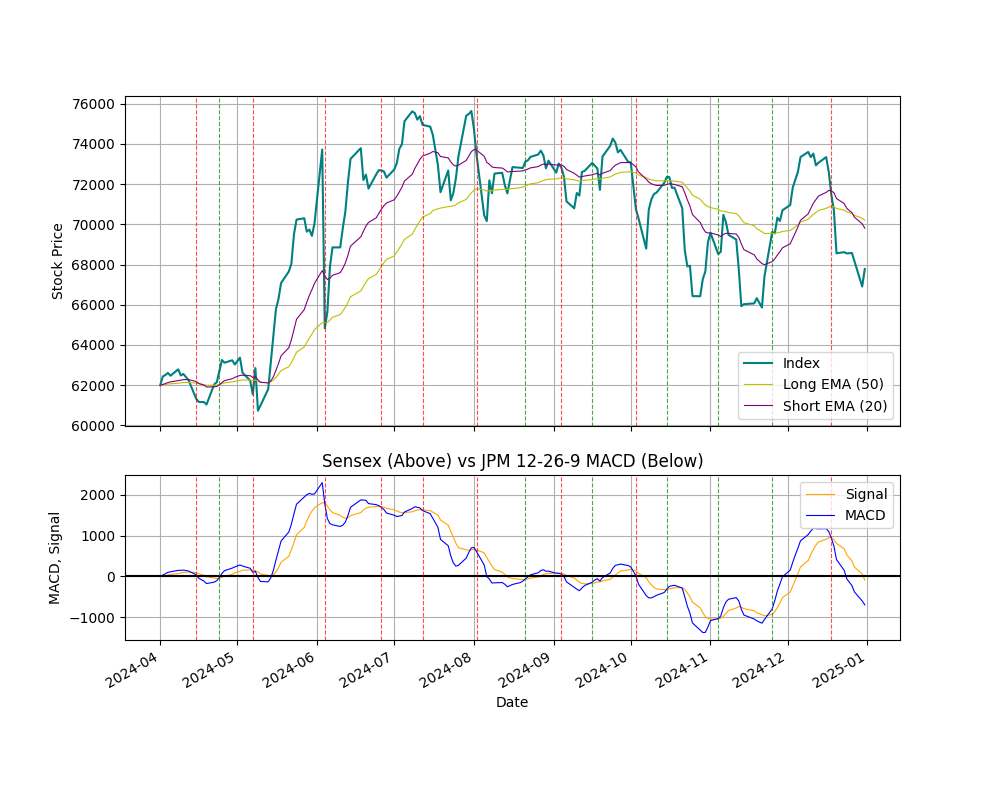
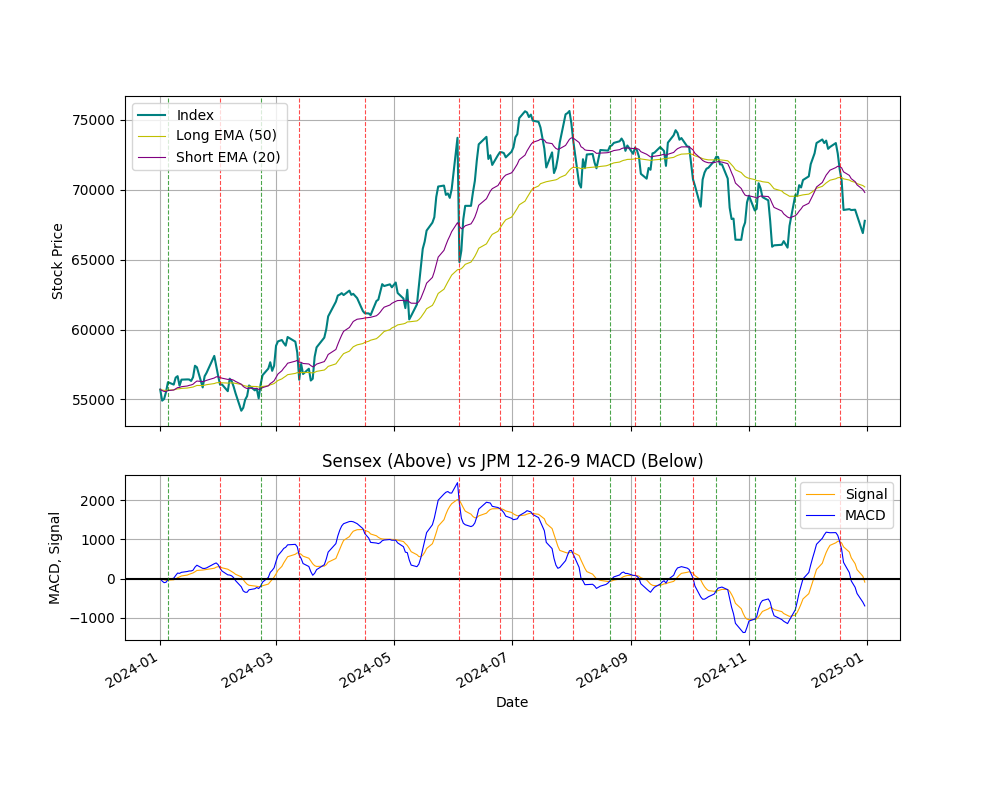
More Data exploration

diff --git a/strategy.py b/strategy.py
@@ -3,6 +3,10 @@ import pandas as pd
 import numpy as np
 import matplotlib.pyplot as plt
 
+from tvDatafeed import TvDatafeed, Interval
+
+tv = TvDatafeed()
+
 def plot_strategy(df):
     fig, ax = plt.subplots(
         2, 1, sharex=True, figsize=(10, 8), gridspec_kw={"height_ratios": [6, 3]}
@@ -53,8 +57,8 @@ def prepare_strategy(df):
     df["Signal"] = df["MACD"].ewm(span=signal_window, adjust=False).mean()
 
     # Find crossover points
-    df["Bullish_Crossover"] = (df["MACD"] > df["Signal"]) & (df["MACD"].shift(1) < df["Signal"].shift(1)) & (df["MACD"] < 10)  # Bullish
-    df["Bearish_Crossover"] = (df["MACD"] < df["Signal"]) & (df["MACD"].shift(1) > df["Signal"].shift(1)) & (df["MACD"] > 0)  # Bearish
+    df["Bullish_Crossover"] = (df["MACD"] > df["Signal"]) & (df["MACD"].shift(1) < df["Signal"].shift(1))# & (df["MACD"] < 0)  # Bullish
+    df["Bearish_Crossover"] = (df["MACD"] < df["Signal"]) & (df["MACD"].shift(1) > df["Signal"].shift(1))# & (df["MACD"] > 0)  # Bearish
 
     return df
 
@@ -111,38 +115,45 @@ def plot_index_performance(categories, values):
     return fig
 
 # sensex_df = pd.read_csv("data/BSE_Bankex_01011999_31122024.csv", index_col="Date", parse_dates=True)    
-    
 # sensex_df = sensex_df.loc["2024-07-01":"2024-12-31"]
-
 # sensex_df = prepare_strategy(sensex_df)
 # total_invested, total_earned, profit_loss = backtest_strategy(sensex_df)
 
-folder_path = 'data'
+# folder_path = 'data'
+# # Dictionary to store plotted lines and their corresponding data
+# categories = []
+# values = []
+# # Loop through all CSV files in the folder
+# for filename in os.listdir(folder_path):
+#     if filename.endswith('.csv'):
+#         # Extract the name between the first and second underscores
+#         legend_name = filename.split('_')[1]
+#         categories.append(legend_name)
+#         # Load the CSV file into a pandas DataFrame
+#         file_path = os.path.join(folder_path, filename)
+#         df = pd.read_csv(file_path, index_col="Date", parse_dates=True) 
+#         sd = "2024-01-01"
+#         ed = "2024-12-31"
+#         df = df.loc[sd:ed]  
+#         macd_df = prepare_strategy(df)
+#         fig = plot_strategy(macd_df)
+#         fig.savefig(f"plots/{legend_name}.png")
+#         print(f"Index name: {legend_name}")
+#         invested, cash, pl = backtest_strategy(macd_df)
+#         values.append(pl)
 
-# Dictionary to store plotted lines and their corresponding data
-categories = []
-values = []
+# fig = plot_index_performance(categories, values)
+# fig.savefig(f"plots/performance.png")
+# total_pl = sum(values)
+# print(f"Total Profit/Loss: ₹{total_pl:.2f} ({'Profit' if total_pl > 0 else 'Loss'})")
 
-# Loop through all CSV files in the folder
-for filename in os.listdir(folder_path):
-    if filename.endswith('.csv'):
-        # Extract the name between the first and second underscores
-        legend_name = filename.split('_')[1]
-        categories.append(legend_name)
-        # Load the CSV file into a pandas DataFrame
-        file_path = os.path.join(folder_path, filename)
-        df = pd.read_csv(file_path, index_col="Date", parse_dates=True) 
-        sd = "2024-04-01"
-        ed = "2024-12-31"
-        df = df.loc[sd:ed]  
-        macd_df = prepare_strategy(df)
-        fig = plot_strategy(macd_df)
-        fig.savefig(f"plots/{legend_name}.png")
-        print(f"Index name: {legend_name}")
-        invested, cash, pl = backtest_strategy(macd_df)
-        values.append(pl)
-
-fig = plot_index_performance(categories, values)
-fig.savefig(f"plots/performance.png")
-total_pl = sum(values)
-print(f"Total Profit/Loss: ₹{total_pl:.2f} ({'Profit' if total_pl > 0 else 'Loss'})")
+mazdock_df = tv.get_hist(symbol='MAZDOCK',exchange='NSE',interval=Interval.in_daily,n_bars=1000)
+mazdock_df.rename(columns={'close': 'Close'}, inplace=True)
+sd = "2024-01-01"
+ed = "2024-12-31"
+mazdock_df = mazdock_df.loc[sd:ed] 
+mazdock_df = prepare_strategy(mazdock_df)
+fig = plot_strategy(mazdock_df)
+fig.savefig(f"plots/MAZDOCK.png")
+total_invested, total_earned, profit_loss = backtest_strategy(mazdock_df)
+print(f"Total Profit/Loss: ₹{profit_loss:.2f} ({'Profit' if profit_loss > 0 else 'Loss'})")

diff --git a/get_hist_data.py b/get_hist_data.py
@@ -1,0 +1,59 @@
+import pandas as pd
+import matplotlib.pyplot as plt
+import matplotlib.dates as mdates
+from tvDatafeed import TvDatafeed, Interval
+
+tv = TvDatafeed()
+
+nifty50_stocks_df = pd.read_csv("data/ind_nifty50list.csv")    
+# Create an empty dictionary to store the industry-wise stocks
+industry_dict = {}
+
+# Iterate over each row in the DataFrame
+for index, row in nifty50_stocks_df.iterrows():
+    industry = row['Industry']
+    symbol = row['Symbol']
+    
+    # If the industry already exists in the dictionary, append the symbol
+    if industry in industry_dict:
+        industry_dict[industry].append(symbol)
+    else:
+        # If the industry is not in the dictionary, create a new entry with the symbol in a list
+        industry_dict[industry] = [symbol]
+
+# Print the dictionary contents line by line
+# for industry, symbols in industry_dict.items():
+#     print(f"Industry: {industry}")
+#     print(f"Stocks: {', '.join(symbols)}\n")
+
+# Function to fetch and plot data for each industry
+def fetch_and_plot_data(industry_dict):
+    for industry, symbols in industry_dict.items():
+        plt.figure(figsize=(12, 6))  # Create a new figure for each industry
+        for symbol in symbols:
+            # Fetch historical data for each stock
+            try:
+                df = tv.get_hist(symbol=symbol, exchange='NSE', interval=Interval.in_daily, n_bars=500)
+                df['close'] /= df['close'].iloc[0]
+                # Plot the close prices for each stock
+                plt.plot(df.index, df['close'], label=symbol)
+            except Exception as e:
+                print(f"Error fetching data for {symbol}: {e}")
+        
+        # Add legend and labels
+        plt.title(f"{industry} Stocks - Historical Data")
+        plt.xlabel("Date")
+        plt.ylabel("Close Price")
+        plt.legend(title="Stocks", loc="upper left")
+        
+        # Save the figure with the industry name
+        plt.savefig(f"plots/nifty50/{industry}_historical_data.png")
+        plt.close()  # Close the plot to avoid overlap in next iteration
+
+fetch_and_plot_data(industry_dict)
+# stock_data = tv.get_hist(symbol='BAJAJ-AUTO',exchange='NSE',interval=Interval.in_daily,n_bars=500)
+# print(stock_data.columns)
+# stock_data["close"].plot()
+# plt.gca().xaxis.set_major_formatter(mdates.DateFormatter('%b-%Y'))
+# plt.grid()
+# plt.show()
